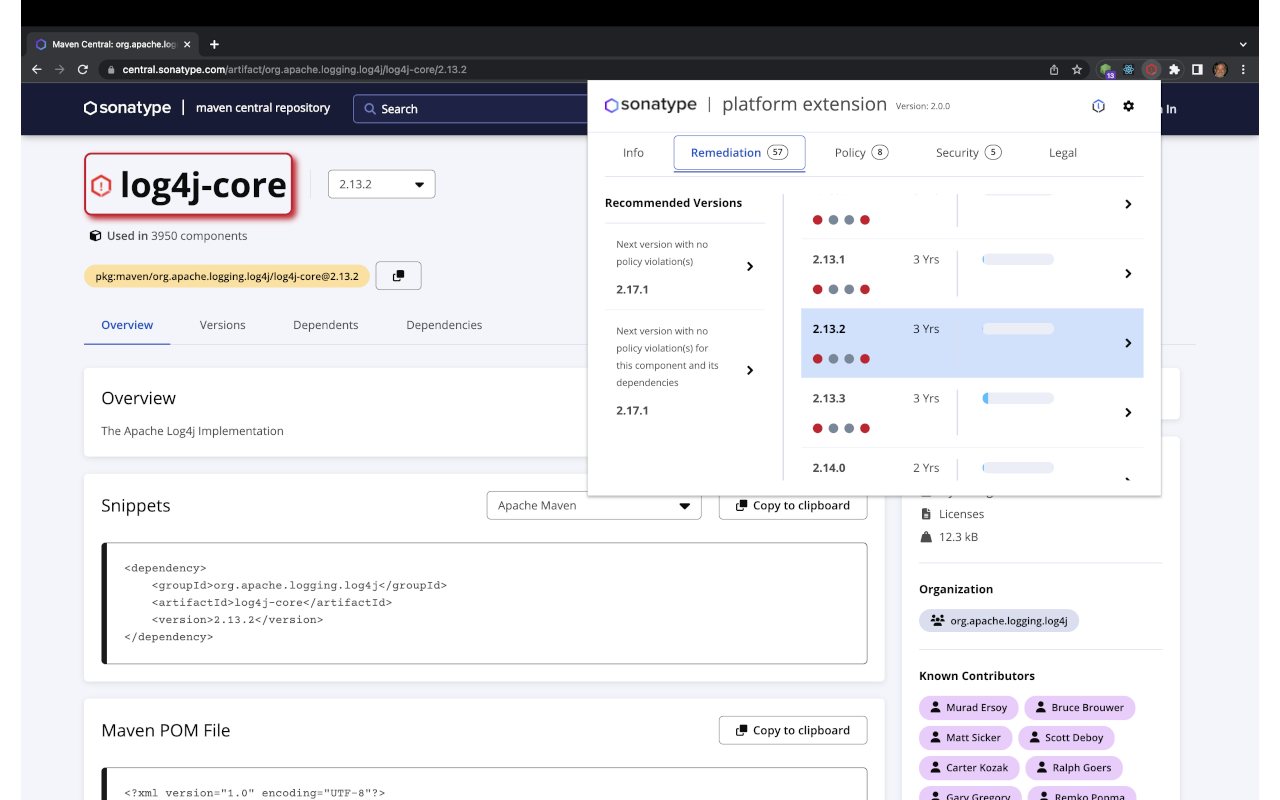
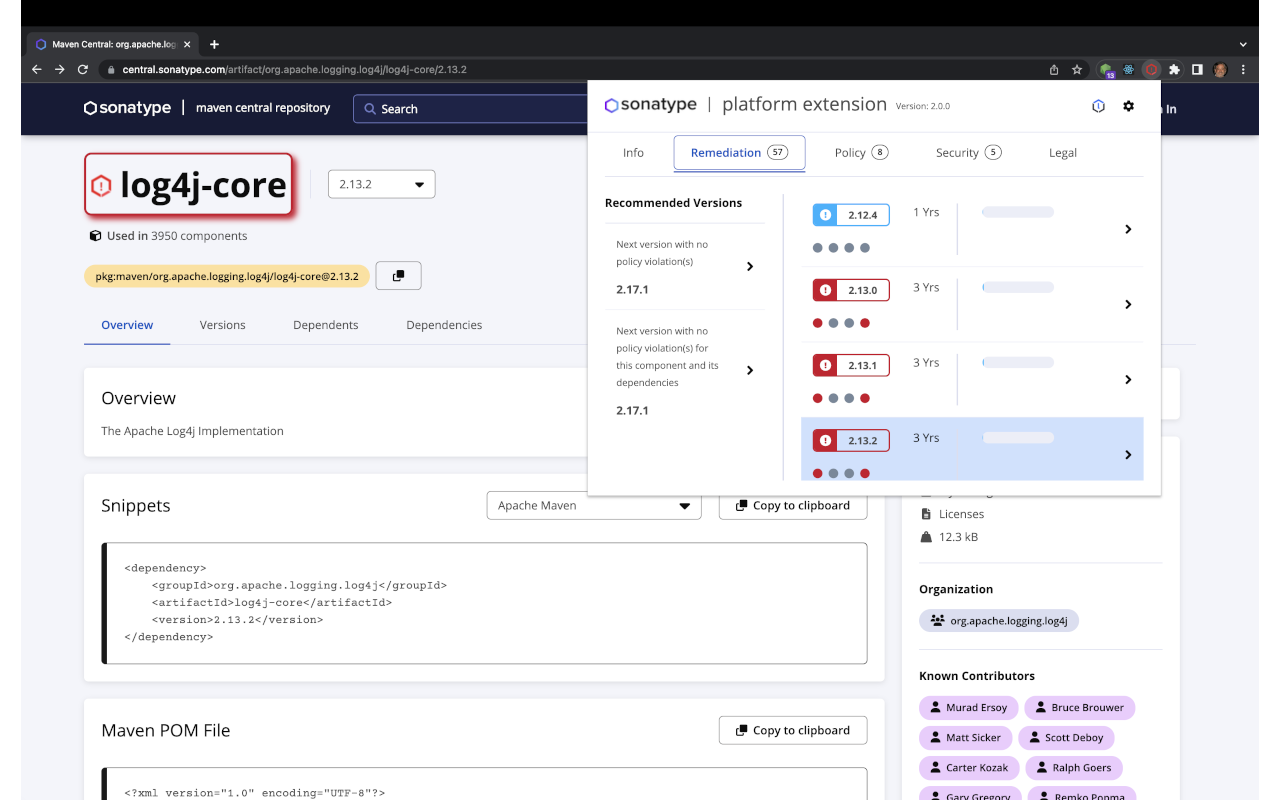
add highest policy threat level to version number and update screenshot

Changed region(s): [[0.625, 0.25, 0.9062, 0.625]]

diff --git a/src/components/Popup/IQServer/RemediationPage/AllVersionsPage/AllVersionsDetails/AllVersionsDetails.tsx b/src/components/Popup/IQServer/RemediationPage/AllVersionsPage/AllVersionsDetails/AllVersionsDetails.tsx
@@ -18,6 +18,7 @@ import {
     NxList,
     NxLoadingSpinner,
     NxMeter,
+    NxPolicyViolationIndicator,
     NxThreatIndicator,
     ThreatLevelNumber,
 } from '@sonatype/react-shared-components'
@@ -27,7 +28,7 @@ import { ExtensionPopupContext } from '../../../../../../context/ExtensionPopupC
 import { ExtensionConfigurationContext } from '../../../../../../context/ExtensionConfigurationContext'
 import './AllVersionsDetails.css'
 import { DATA_SOURCE } from '../../../../../../utils/Constants'
-import { ApiPolicyViolationDTOV2 } from '@sonatype/nexus-iq-api-client'
+import { ApiComponentPolicyViolationListDTOV2, ApiPolicyViolationDTOV2 } from '@sonatype/nexus-iq-api-client'
 import { getNewUrlandGo } from '../../../../../../utils/Helpers'
 import { Tooltip } from '@material-ui/core'
 import { getMaxThreatLevelForPolicyViolations } from '../../../../../../types/Component'
@@ -55,6 +56,17 @@ function IqAllVersionDetails() {
             return noTime
         }
         return 'N/A'
+    }
+
+    function getMaxViolation(policyData: ApiComponentPolicyViolationListDTOV2) {
+        if (policyData.policyViolations && policyData.policyViolations.length > 0) {
+            return Math.max(
+                ...policyData.policyViolations.map((violation) =>
+                    violation.threatLevel != undefined ? violation.threatLevel : 0
+                )
+            )
+        }
+        return 0
     }
 
     function calculateAge(catalogDate) {
@@ -134,7 +146,18 @@ function IqAllVersionDetails() {
                                         marginBottom: '0px',
                                     }}>
                                     <NxGrid.Column className='nx-grid-col-50'>
-                                        <NxGrid.Header><strong>{versionPurl.version}</strong>
+                                        <NxGrid.Header>
+                                            {/* <strong>{versionPurl.version}</strong> */}
+                                            <NxPolicyViolationIndicator
+                                                    style={{ marginBottom: '16px !important' }}
+                                                    policyThreatLevel={
+                                                        Math.round(
+                                                            getMaxViolation(version.policyData as ApiComponentPolicyViolationListDTOV2)
+                                                        ) as ThreatLevelNumber
+                                                    }>
+                                                    {versionPurl.version}
+                                                </NxPolicyViolationIndicator>
+
                                             <Tooltip
                                                 title={`Catalog Date: ${formatDate(version.catalogDate)}`}>
                                                 <span className='nx-pull-right'>{calculateAge(version.catalogDate)} Yrs</span>
